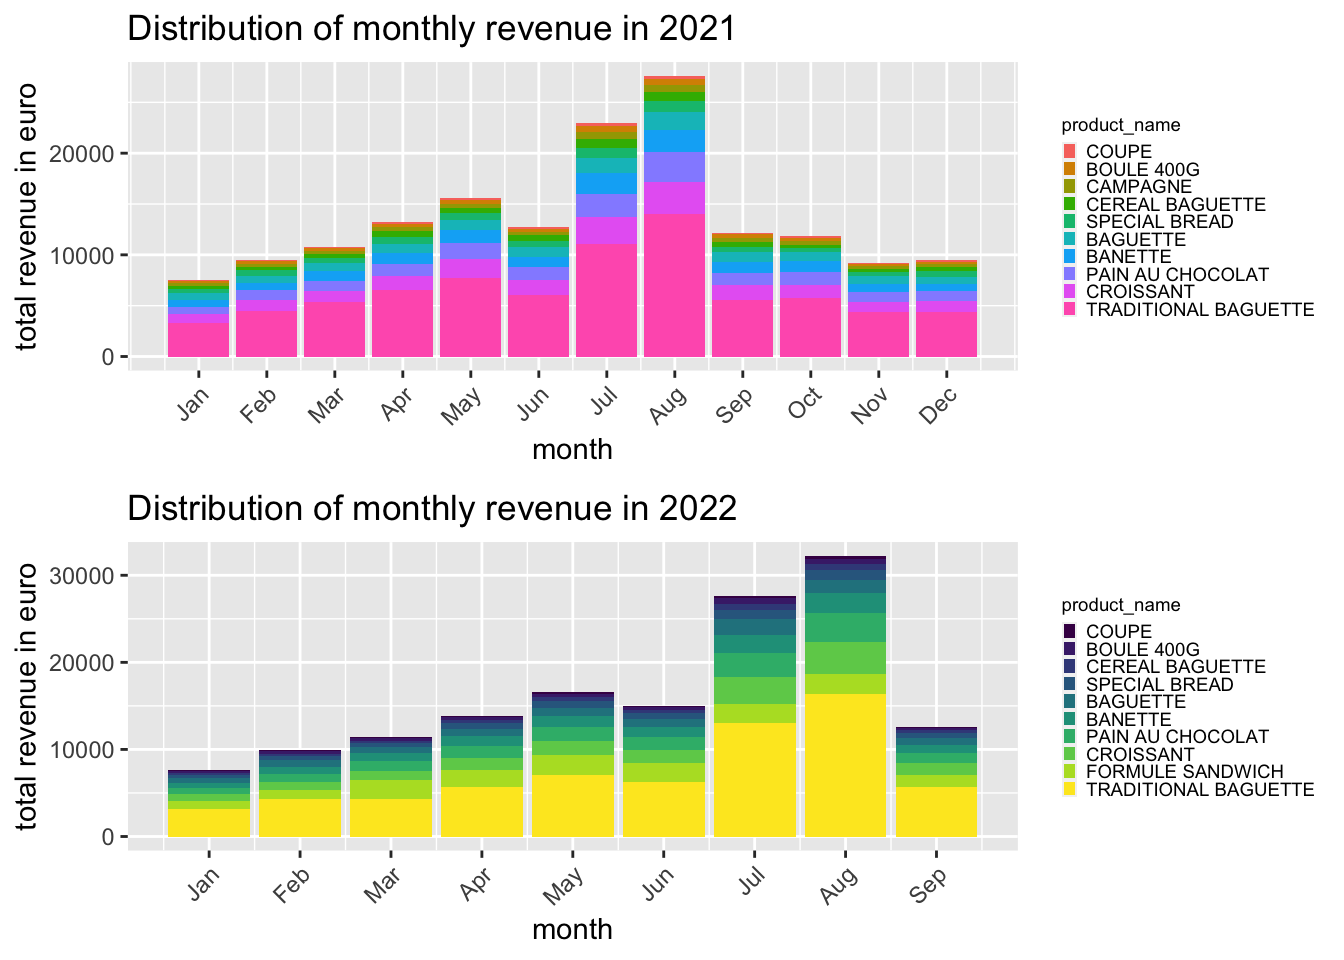
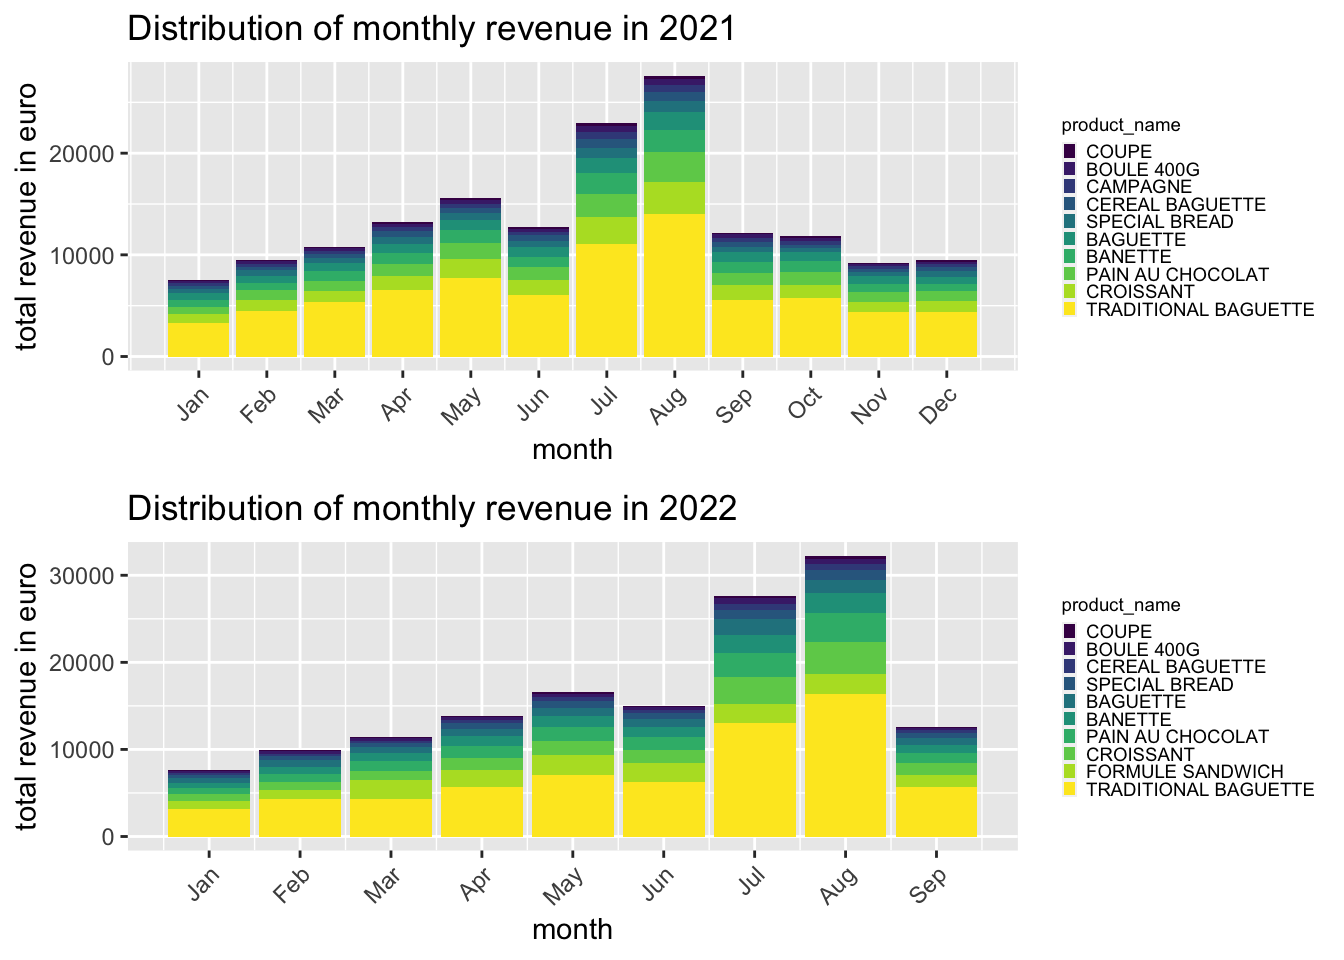
added plot for Distribution of monthly revenue in 2021 and 2022 and added a short summary for now

Changed region(s): [[0.125, 0.0625, 0.75, 0.375], [0.7812, 0.1562, 0.8125, 0.3438]]

diff --git a/plot.html b/plot.html
@@ -447,8 +447,8 @@ the missing data via <code>filter()</code> and <code>article</code> via
          yaxis = list(showgrid = FALSE, zeroline = FALSE, showticklabels = FALSE))
 
 plot_pie</code></pre>
-<div id="htmlwidget-a2561e157ecc45499917" style="width:672px;height:480px;" class="plotly html-widget"></div>
-<script type="application/json" data-for="htmlwidget-a2561e157ecc45499917">{"x":{"visdat":{"c57357bc1718":["function () ","plotlyVisDat"]},"cur_data":"c57357bc1718","attrs":{"c57357bc1718":{"labels":{},"values":{},"colors":"viridis","alpha_stroke":1,"sizes":[10,100],"spans":[1,20],"type":"pie"}},"layout":{"margin":{"b":40,"l":60,"t":25,"r":10},"xaxis":{"showgrid":false,"zeroline":false,"showticklabels":false},"yaxis":{"showgrid":false,"zeroline":false,"showticklabels":false},"hovermode":"closest","showlegend":true},"source":"A","config":{"modeBarButtonsToAdd":["hoverclosest","hovercompare"],"showSendToCloud":false},"data":[{"labels":["TRADITIONAL BAGUETTE","COUPE","BAGUETTE","BANETTE","CROISSANT","PAIN AU CHOCOLAT","SPECIAL BREAD","CEREAL BAGUETTE","FORMULE SANDWICH","BOULE 400G"],"values":[67689,20470,15292,15130,11508,10578,5195,4961,4202,4099],"type":"pie","marker":{"color":"rgba(31,119,180,1)","line":{"color":"rgba(255,255,255,1)"}},"frame":null}],"highlight":{"on":"plotly_click","persistent":false,"dynamic":false,"selectize":false,"opacityDim":0.2,"selected":{"opacity":1},"debounce":0},"shinyEvents":["plotly_hover","plotly_click","plotly_selected","plotly_relayout","plotly_brushed","plotly_brushing","plotly_clickannotation","plotly_doubleclick","plotly_deselect","plotly_afterplot","plotly_sunburstclick"],"base_url":"https://plot.ly"},"evals":[],"jsHooks":[]}</script>
+<div id="htmlwidget-7a16b913eb7f89da544b" style="width:672px;height:480px;" class="plotly html-widget"></div>
+<script type="application/json" data-for="htmlwidget-7a16b913eb7f89da544b">{"x":{"visdat":{"c7207624942c":["function () ","plotlyVisDat"]},"cur_data":"c7207624942c","attrs":{"c7207624942c":{"labels":{},"values":{},"colors":"viridis","alpha_stroke":1,"sizes":[10,100],"spans":[1,20],"type":"pie"}},"layout":{"margin":{"b":40,"l":60,"t":25,"r":10},"xaxis":{"showgrid":false,"zeroline":false,"showticklabels":false},"yaxis":{"showgrid":false,"zeroline":false,"showticklabels":false},"hovermode":"closest","showlegend":true},"source":"A","config":{"modeBarButtonsToAdd":["hoverclosest","hovercompare"],"showSendToCloud":false},"data":[{"labels":["TRADITIONAL BAGUETTE","COUPE","BAGUETTE","BANETTE","CROISSANT","PAIN AU CHOCOLAT","SPECIAL BREAD","CEREAL BAGUETTE","FORMULE SANDWICH","BOULE 400G"],"values":[67689,20470,15292,15130,11508,10578,5195,4961,4202,4099],"type":"pie","marker":{"color":"rgba(31,119,180,1)","line":{"color":"rgba(255,255,255,1)"}},"frame":null}],"highlight":{"on":"plotly_click","persistent":false,"dynamic":false,"selectize":false,"opacityDim":0.2,"selected":{"opacity":1},"debounce":0},"shinyEvents":["plotly_hover","plotly_click","plotly_selected","plotly_relayout","plotly_brushed","plotly_brushing","plotly_clickannotation","plotly_doubleclick","plotly_deselect","plotly_afterplot","plotly_sunburstclick"],"base_url":"https://plot.ly"},"evals":[],"jsHooks":[]}</script>
 <p>The pie chart shows the total of sale counts of top 10 favorite
 bakery types from 2021-01-01 to 2022-09-30. As the plot shows that the
 <code>TRADITIONAL BAGUETTE</code> (67,689; 42.5%) is the most favorite
@@ -500,11 +500,11 @@ plot_pie_2022 =
          yaxis = list(showgrid = FALSE, zeroline = FALSE, showticklabels = FALSE))
 
 plot_pie_2021</code></pre>
-<div id="htmlwidget-e45dfef2f1d7be163c04" style="width:672px;height:480px;" class="plotly html-widget"></div>
-<script type="application/json" data-for="htmlwidget-e45dfef2f1d7be163c04">{"x":{"visdat":{"c573ee78758":["function () ","plotlyVisDat"]},"cur_data":"c573ee78758","attrs":{"c573ee78758":{"labels":{},"values":{},"alpha_stroke":1,"sizes":[10,100],"spans":[1,20],"type":"pie","hole":0.6,"inherit":true}},"layout":{"margin":{"b":40,"l":60,"t":25,"r":10},"title":"Top 10 favoriate bakeries in 2021","xaxis":{"showgrid":false,"zeroline":false,"showticklabels":false},"yaxis":{"showgrid":false,"zeroline":false,"showticklabels":false},"hovermode":"closest","showlegend":true},"source":"A","config":{"modeBarButtonsToAdd":["hoverclosest","hovercompare"],"showSendToCloud":false},"data":[{"labels":["TRADITIONAL BAGUETTE","COUPE","BAGUETTE","BANETTE","CROISSANT","PAIN AU CHOCOLAT","CEREAL BAGUETTE","SPECIAL BREAD","CAMPAGNE","BOULE 400G"],"values":[37399,11759,8713,8575,6291,5739,3070,2936,2289,2283],"type":"pie","hole":0.6,"marker":{"color":"rgba(31,119,180,1)","line":{"color":"rgba(255,255,255,1)"}},"frame":null}],"highlight":{"on":"plotly_click","persistent":false,"dynamic":false,"selectize":false,"opacityDim":0.2,"selected":{"opacity":1},"debounce":0},"shinyEvents":["plotly_hover","plotly_click","plotly_selected","plotly_relayout","plotly_brushed","plotly_brushing","plotly_clickannotation","plotly_doubleclick","plotly_deselect","plotly_afterplot","plotly_sunburstclick"],"base_url":"https://plot.ly"},"evals":[],"jsHooks":[]}</script>
+<div id="htmlwidget-e2bb0ce4b05b160263ac" style="width:672px;height:480px;" class="plotly html-widget"></div>
+<script type="application/json" data-for="htmlwidget-e2bb0ce4b05b160263ac">{"x":{"visdat":{"c7202e53c380":["function () ","plotlyVisDat"]},"cur_data":"c7202e53c380","attrs":{"c7202e53c380":{"labels":{},"values":{},"alpha_stroke":1,"sizes":[10,100],"spans":[1,20],"type":"pie","hole":0.6,"inherit":true}},"layout":{"margin":{"b":40,"l":60,"t":25,"r":10},"title":"Top 10 favoriate bakeries in 2021","xaxis":{"showgrid":false,"zeroline":false,"showticklabels":false},"yaxis":{"showgrid":false,"zeroline":false,"showticklabels":false},"hovermode":"closest","showlegend":true},"source":"A","config":{"modeBarButtonsToAdd":["hoverclosest","hovercompare"],"showSendToCloud":false},"data":[{"labels":["TRADITIONAL BAGUETTE","COUPE","BAGUETTE","BANETTE","CROISSANT","PAIN AU CHOCOLAT","CEREAL BAGUETTE","SPECIAL BREAD","CAMPAGNE","BOULE 400G"],"values":[37399,11759,8713,8575,6291,5739,3070,2936,2289,2283],"type":"pie","hole":0.6,"marker":{"color":"rgba(31,119,180,1)","line":{"color":"rgba(255,255,255,1)"}},"frame":null}],"highlight":{"on":"plotly_click","persistent":false,"dynamic":false,"selectize":false,"opacityDim":0.2,"selected":{"opacity":1},"debounce":0},"shinyEvents":["plotly_hover","plotly_click","plotly_selected","plotly_relayout","plotly_brushed","plotly_brushing","plotly_clickannotation","plotly_doubleclick","plotly_deselect","plotly_afterplot","plotly_sunburstclick"],"base_url":"https://plot.ly"},"evals":[],"jsHooks":[]}</script>
 <pre class="r"><code>plot_pie_2022</code></pre>
-<div id="htmlwidget-10bf11517e0dfe1a3fd8" style="width:672px;height:480px;" class="plotly html-widget"></div>
-<script type="application/json" data-for="htmlwidget-10bf11517e0dfe1a3fd8">{"x":{"visdat":{"c573266aa0d":["function () ","plotlyVisDat"]},"cur_data":"c573266aa0d","attrs":{"c573266aa0d":{"labels":{},"values":{},"alpha_stroke":1,"sizes":[10,100],"spans":[1,20],"type":"pie","hole":0.6,"inherit":true}},"layout":{"margin":{"b":40,"l":60,"t":25,"r":10},"title":"Top 10 favoriate bakeries in 2022","xaxis":{"showgrid":false,"zeroline":false,"showticklabels":false},"yaxis":{"showgrid":false,"zeroline":false,"showticklabels":false},"hovermode":"closest","showlegend":true},"source":"A","config":{"modeBarButtonsToAdd":["hoverclosest","hovercompare"],"showSendToCloud":false},"data":[{"labels":["TRADITIONAL BAGUETTE","COUPE","BAGUETTE","BANETTE","CROISSANT","PAIN AU CHOCOLAT","SPECIAL BREAD","FORMULE SANDWICH","CEREAL BAGUETTE","BOULE 400G"],"values":[30290,8711,6579,6555,5217,4839,2259,1976,1891,1816],"type":"pie","hole":0.6,"marker":{"color":"rgba(31,119,180,1)","line":{"color":"rgba(255,255,255,1)"}},"frame":null}],"highlight":{"on":"plotly_click","persistent":false,"dynamic":false,"selectize":false,"opacityDim":0.2,"selected":{"opacity":1},"debounce":0},"shinyEvents":["plotly_hover","plotly_click","plotly_selected","plotly_relayout","plotly_brushed","plotly_brushing","plotly_clickannotation","plotly_doubleclick","plotly_deselect","plotly_afterplot","plotly_sunburstclick"],"base_url":"https://plot.ly"},"evals":[],"jsHooks":[]}</script>
+<div id="htmlwidget-20a29ac44aabce74c875" style="width:672px;height:480px;" class="plotly html-widget"></div>
+<script type="application/json" data-for="htmlwidget-20a29ac44aabce74c875">{"x":{"visdat":{"c7207d482042":["function () ","plotlyVisDat"]},"cur_data":"c7207d482042","attrs":{"c7207d482042":{"labels":{},"values":{},"alpha_stroke":1,"sizes":[10,100],"spans":[1,20],"type":"pie","hole":0.6,"inherit":true}},"layout":{"margin":{"b":40,"l":60,"t":25,"r":10},"title":"Top 10 favoriate bakeries in 2022","xaxis":{"showgrid":false,"zeroline":false,"showticklabels":false},"yaxis":{"showgrid":false,"zeroline":false,"showticklabels":false},"hovermode":"closest","showlegend":true},"source":"A","config":{"modeBarButtonsToAdd":["hoverclosest","hovercompare"],"showSendToCloud":false},"data":[{"labels":["TRADITIONAL BAGUETTE","COUPE","BAGUETTE","BANETTE","CROISSANT","PAIN AU CHOCOLAT","SPECIAL BREAD","FORMULE SANDWICH","CEREAL BAGUETTE","BOULE 400G"],"values":[30290,8711,6579,6555,5217,4839,2259,1976,1891,1816],"type":"pie","hole":0.6,"marker":{"color":"rgba(31,119,180,1)","line":{"color":"rgba(255,255,255,1)"}},"frame":null}],"highlight":{"on":"plotly_click","persistent":false,"dynamic":false,"selectize":false,"opacityDim":0.2,"selected":{"opacity":1},"debounce":0},"shinyEvents":["plotly_hover","plotly_click","plotly_selected","plotly_relayout","plotly_brushed","plotly_brushing","plotly_clickannotation","plotly_doubleclick","plotly_deselect","plotly_afterplot","plotly_sunburstclick"],"base_url":"https://plot.ly"},"evals":[],"jsHooks":[]}</script>
 <p>The first donut chart shows the total of sale counts of top 10
 favorite bakery types from 2021-01-01 to 2021-12-31. As the plot shows
 that the <code>TRADITIONAL BAGUETTE</code> (37,399; 42%) is the most
@@ -811,6 +811,7 @@ dis_rev_bar_2021=
   arrange(desc(prod_dis_rev)) %&gt;% 
    mutate(product_name = fct_reorder(product_name, prod_dis_rev)) %&gt;% 
     ggplot(aes(x =month, y= prod_dis_rev, fill=product_name)) + 
+    scale_fill_viridis_d()+
     geom_bar(stat=&quot;identity&quot;, position=&quot;stack&quot;) +
     labs(x = &quot;month&quot;,
          y = &quot;total revenue in euro&quot;,
@@ -843,6 +844,17 @@ dis_rev_bar_2022=
 ggarrange(dis_rev_bar_2021, dis_rev_bar_2022,  heights = c(5, 5),
           ncol = 1, nrow = 2)</code></pre>
 <p><img src="plot_files/figure-html/unnamed-chunk-8-1.png" width="672" /></p>
+<p>The bar plots show distributions of monthly revenue in 2021 and 2022.
+<code>TRADITIONAL BAGUETTE</code> has the largest proportion of monthly
+revenues (around 50%) in 2021 and 2022.</p>
+<p>
+ 
+</p >
+<div id="summary" class="section level4">
+<h4>Summary</h4>
+<p><code>TRADITIONAL BAGUETTE</code> is the most favorite bread in this
+French bakery store.</p>
+</div>
 </div>
 </div>
 
